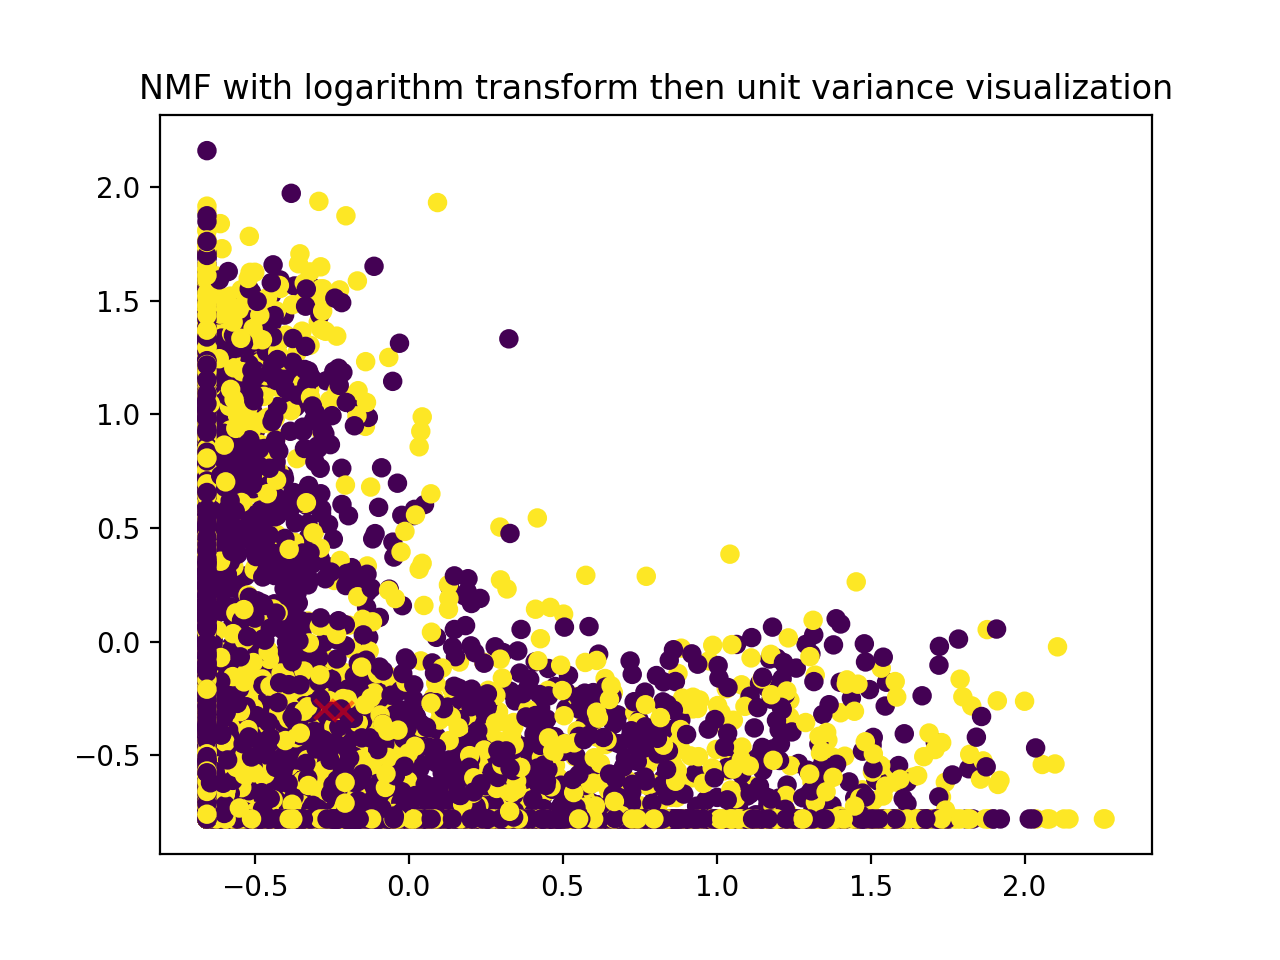
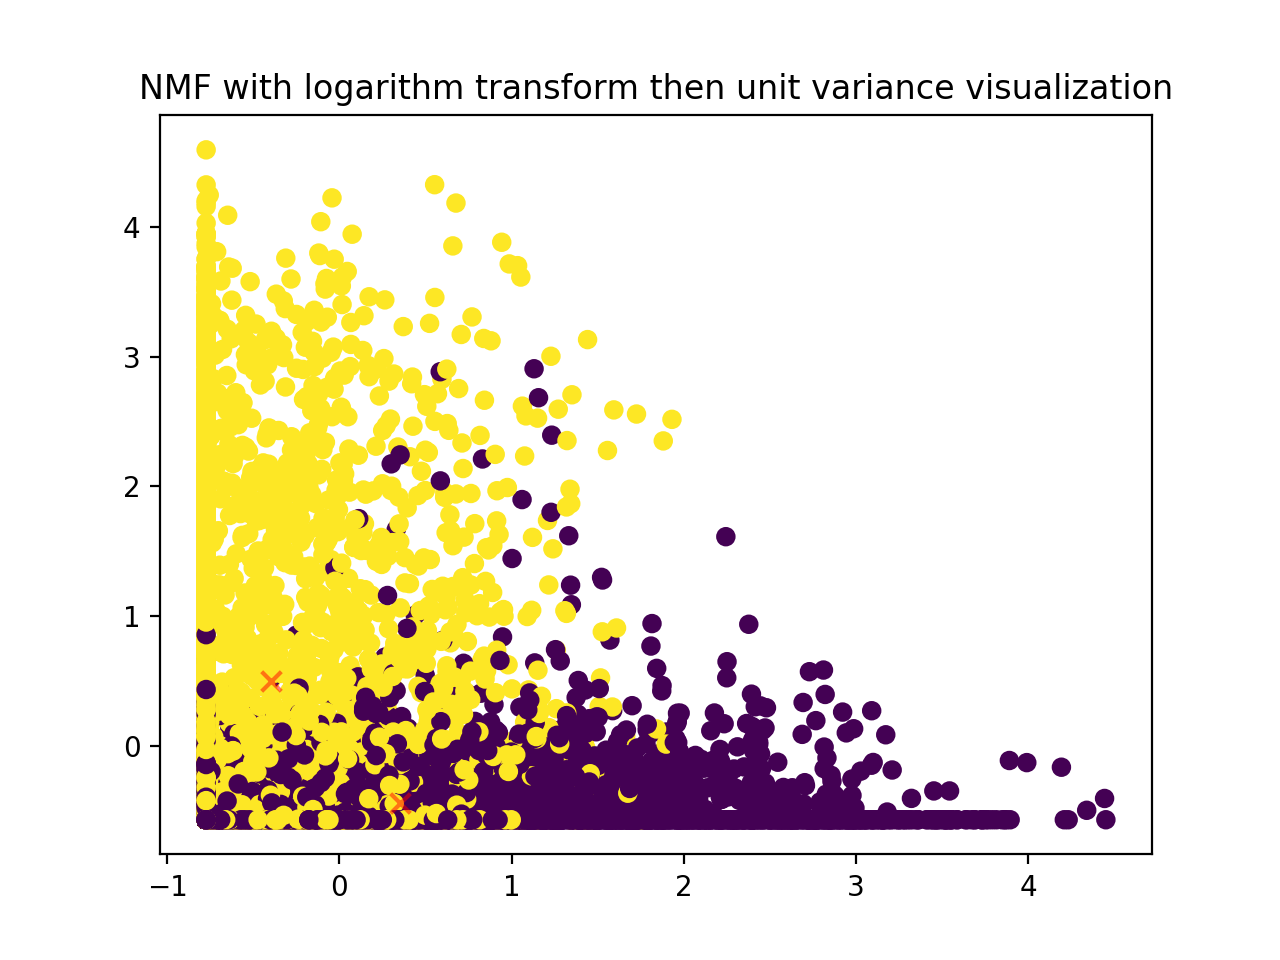
smaller offset for log scaling, better results

diff --git a/lab2/8_cats_p4.py b/lab2/8_cats_p4.py
@@ -39,8 +39,8 @@ tfidf = vectorizer.fit_transform(dataset.data)
 from sklearn.decomposition import NMF
 from sklearn.decomposition import TruncatedSVD
 print "Using r=25 for SVD and r=10 for NMF"
-lsi = TruncatedSVD(n_components=25)
-nmf = NMF(n_components=10)
+lsi = TruncatedSVD(n_components=25, random_state=0)
+nmf = NMF(n_components=10, init='random', random_state=0)
 tfidf = tfidf
 
 #plot the two scatter plots
@@ -91,10 +91,10 @@ cluster_plot(labels, scale(nmf.fit_transform(tfidf)), "", "", "NMF with unit var
 
 log_tf = FunctionTransformer(func=np.log, inverse_func=np.exp)
 print "NMF with non-linear (log) transform"
-cluster_plot(labels, log_tf.fit_transform(nmf.fit_transform(tfidf) + 1), "", "", "NMF with logarithm transform visualization")
+cluster_plot(labels, log_tf.fit_transform(nmf.fit_transform(tfidf) + 0.01), "", "", "NMF with logarithm transform visualization")
 
 print "NMF with scale then log transform"
 cluster_plot(labels, log_tf.fit_transform(scale(nmf.fit_transform(tfidf)) + 1), "", "", "NMF with unit variance then logarithm transform visualization")
 
 print "NMF with log transform then scale"
-cluster_plot(labels, log_tf.fit_transform(scale(nmf.fit_transform(tfidf)) + 1), "", "", "NMF with logarithm transform then unit variance visualization")
+cluster_plot(labels, scale(log_tf.fit_transform(nmf.fit_transform(tfidf) + 0.01)), "", "", "NMF with logarithm transform then unit variance visualization")
